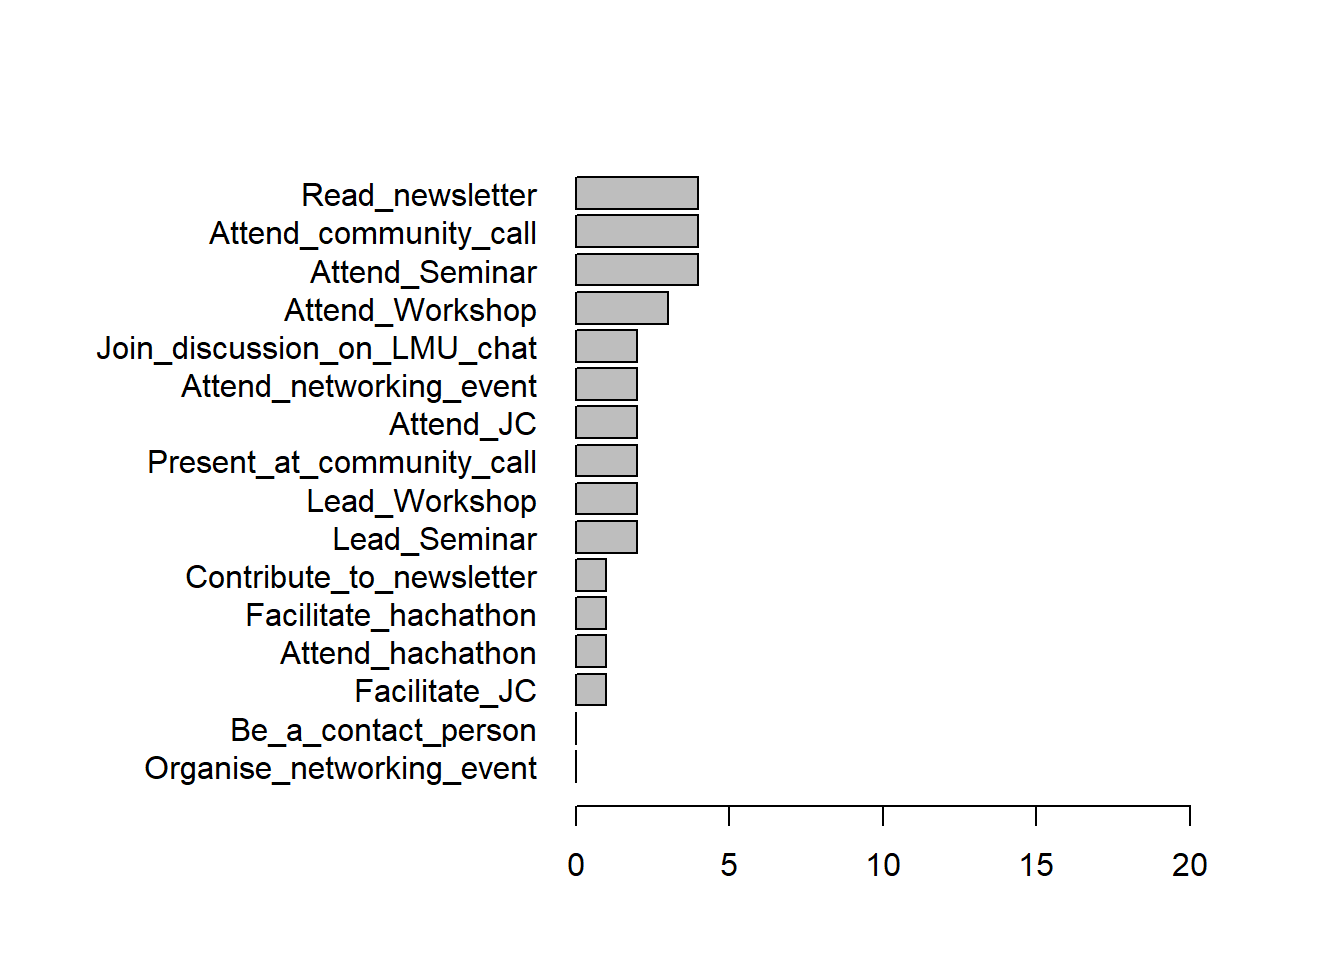
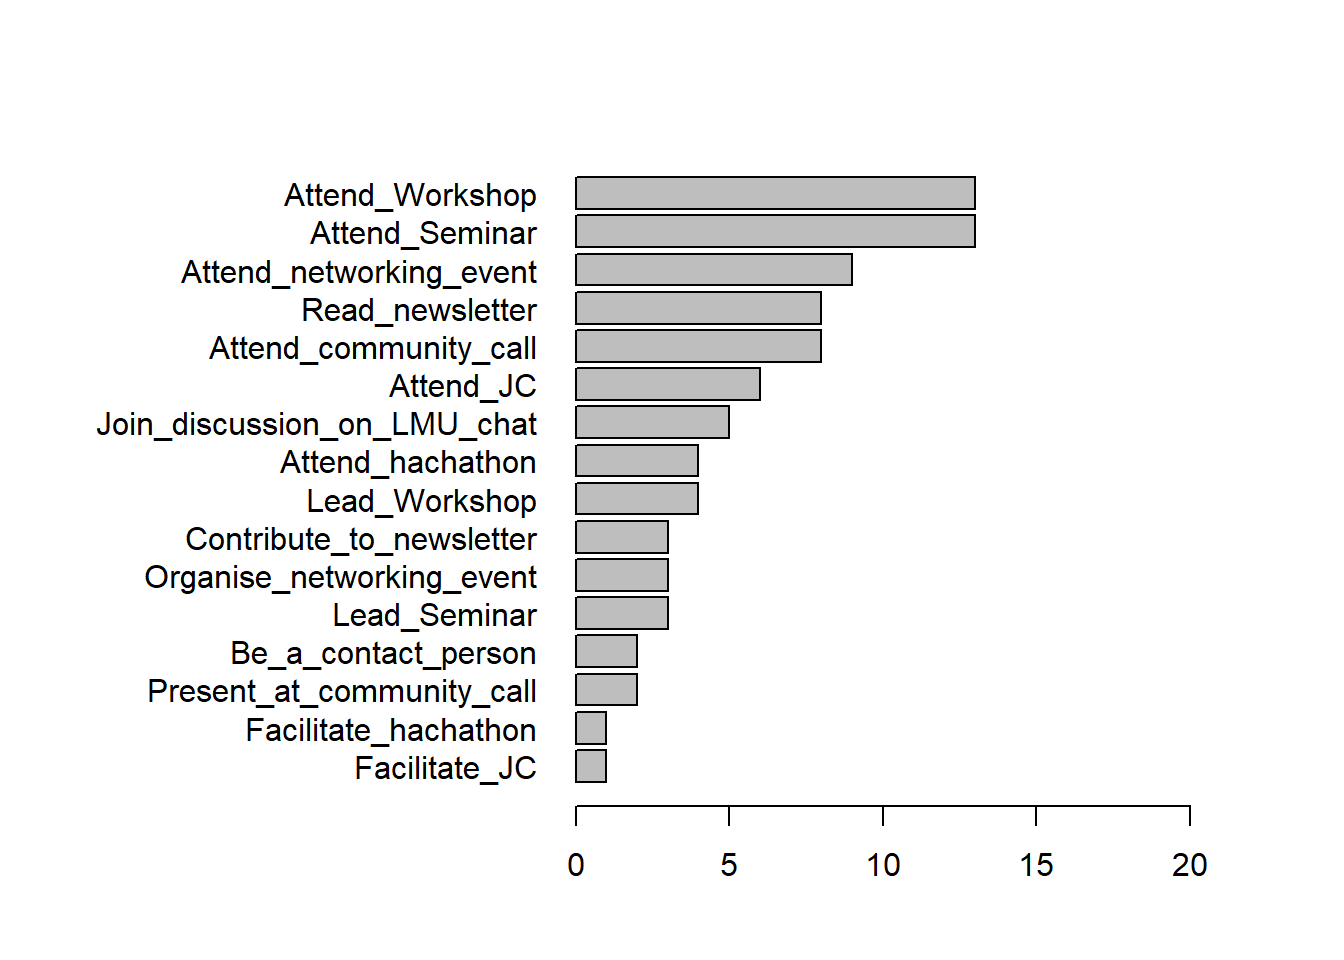
more data

Changed region(s): [[0.0938, 0.1562, 0.75, 0.8125], [0.0625, 0.1875, 0.4062, 0.5]]

diff --git a/OSC survery results.html b/OSC survery results.html
@@ -59,7 +59,7 @@ ul.task-list{list-style: none;}
 <div class="cell">
 
 </div>
-<p>Total number of participant in the OSC survey: <strong>4</strong></p>
+<p>Total number of participant in the OSC survey: <strong>16</strong></p>
 </section>
 <section id="survey-resuts" class="level2">
 <h2 class="anchored" data-anchor-id="survey-resuts">Survey Resuts</h2>
@@ -71,7 +71,7 @@ ul.task-list{list-style: none;}
 <div class="cell-output cell-output-stdout">
 <pre><code>
  No Yes 
-  1   3 </code></pre>
+  9   7 </code></pre>
 </div>
 </div>
 </section>
@@ -80,8 +80,8 @@ ul.task-list{list-style: none;}
 <div class="cell">
 <div class="cell-output cell-output-stdout">
 <pre><code>
-   LMU Munich 
-     3      1 </code></pre>
+Germany     LMU  Munich 
+      2      12       2 </code></pre>
 </div>
 </div>
 </section>
@@ -91,13 +91,17 @@ ul.task-list{list-style: none;}
 <div class="cell-output cell-output-stdout">
 <pre><code>
 Art, humanities, history, linguistics, and culture science 
+                                                         2 
+                           Biology, Chemistry, Geosciences 
                                                          1 
                    Law, Economics, Business Administration 
                                                          1 
                     Math, Statistics, Informatics, Physics 
-                                                         1 
+                                                         2 
+                             Medicine, Veterinary medicine 
+                                                         2 
          Social sciences, Psychology, educational sciences 
-                                                         1 </code></pre>
+                                                         8 </code></pre>
 </div>
 </div>
 </section>
@@ -106,13 +110,15 @@ Art, humanities, history, linguistics, and culture science
 <div class="cell">
 <div class="cell-output cell-output-stdout">
 <pre><code>
-other   PhD    PI 
-    1     1     2 </code></pre>
+  other     PhD      PI Postdoc 
+      2       6       7       1 </code></pre>
 </div>
 <div class="cell-output cell-output-stdout">
 <pre><code>
-Consultant 
-         1 </code></pre>
+                                                                   Consultant 
+                                                                            1 
+Doing applied research, evaluatoins and policy briefs  at a federal ministry  
+                                                                            1 </code></pre>
 </div>
 </div>
 </section>
@@ -193,7 +199,7 @@ Consultant
 <p>‘If you have any comment(s) about what would help you feel comfortable contributing (e.g., language, online vs.&nbsp;in-person events, synchronous vs asynchronous contributions), please indicate them here:’</p>
 <div class="cell">
 <div class="cell-output cell-output-stdout">
-<pre><code>character(0)</code></pre>
+<pre><code>[1] "I'm a very minor importance in the network, so please don't weight my answers too much. I'm more intrested in following up whta you big players do and consider important"</code></pre>
 </div>
 </div>
 </section>
